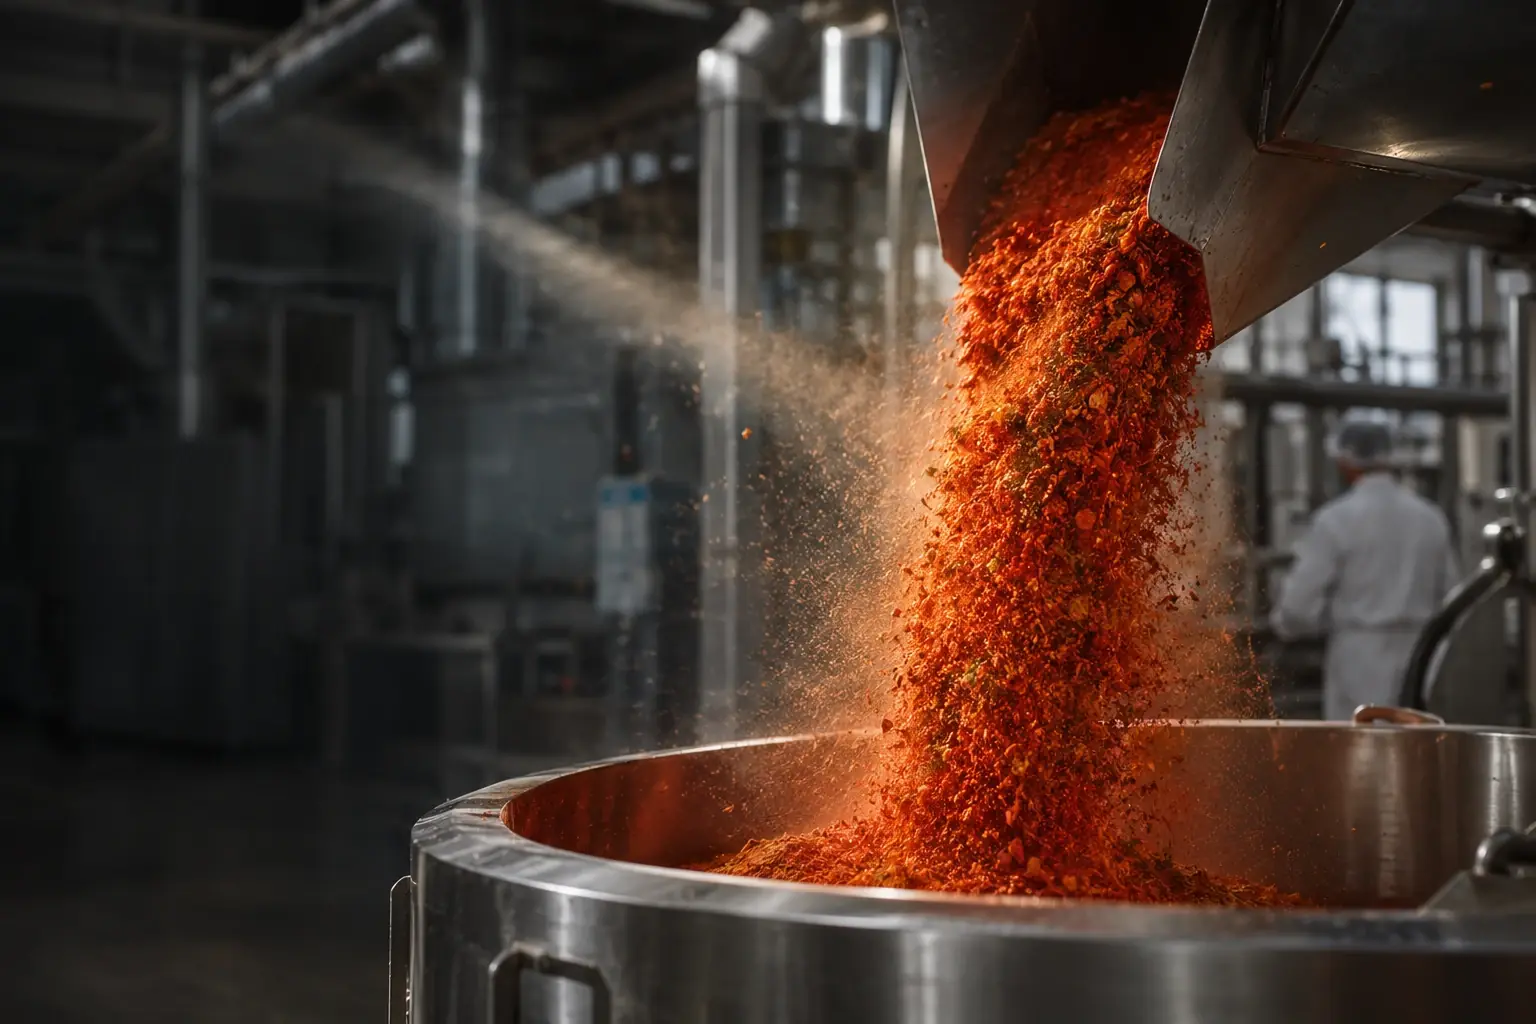
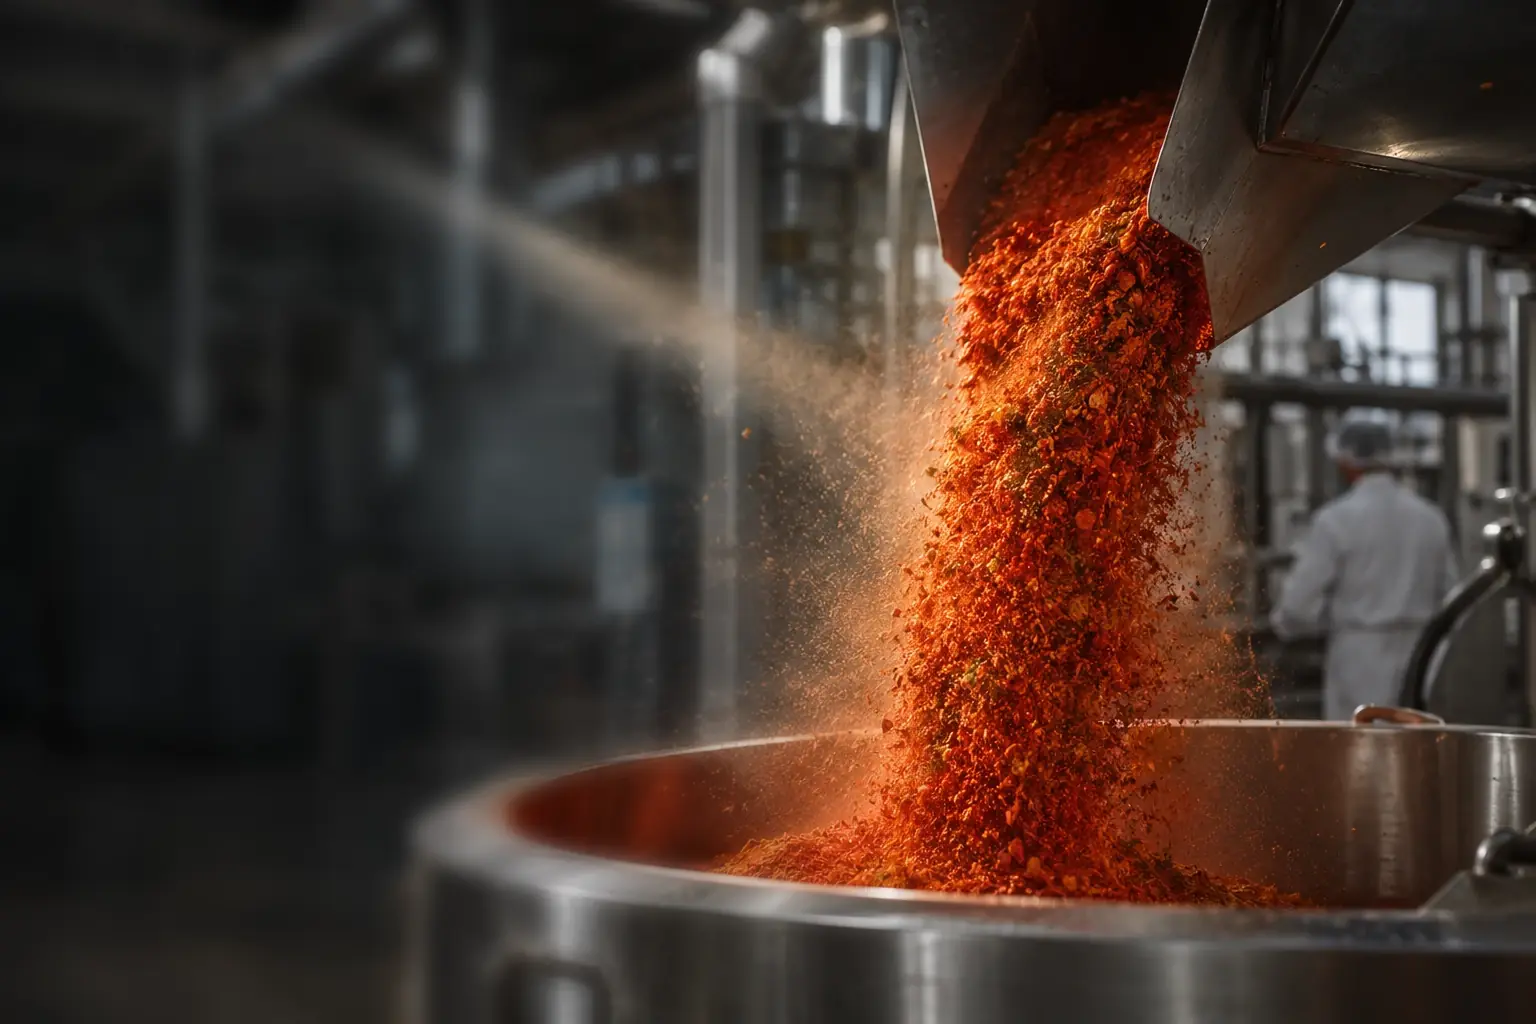
Verze 2: rozmazání úvodní fotky předpočítané ve fotce místo živého filtru (posouvání 16 → 60 snímků/s), zvláštní výřez pro mobil
Claude-Session: https://claude.ai/code/session_01257Qq19mEpNfZne79Q5W11

diff --git a/v2/index.html b/v2/index.html
@@ -31,7 +31,8 @@
 <!-- META:END -->
 <meta name="theme-color" content="#A7110C">
 <meta name="color-scheme" content="light">
-<link rel="preload" as="image" href="../img/v2/hero-1536.webp" imagesrcset="../img/v2/hero-900.webp 900w, ../img/v2/hero-1536.webp 1536w" imagesizes="100vw" type="image/webp" fetchpriority="high">
+<link rel="preload" as="image" href="../img/v2/hero-m-600.webp" media="(max-width:760px)" type="image/webp" fetchpriority="high">
+<link rel="preload" as="image" href="../img/v2/hero-1536.webp" imagesrcset="../img/v2/hero-900.webp 900w, ../img/v2/hero-1536.webp 1536w" imagesizes="100vw" media="(min-width:761px)" type="image/webp" fetchpriority="high">
 <link rel="preload" href="../assets/fonts/dmsans-latin.woff2" as="font" type="font/woff2" crossorigin>
 <link rel="preload" href="../assets/fonts/dmsans-latin-ext.woff2" as="font" type="font/woff2" crossorigin>
 <link rel="preload" href="../assets/fonts/inter-latin.woff2" as="font" type="font/woff2" crossorigin>
@@ -672,9 +673,6 @@ form.q[hidden],.q-done[hidden]{display:none}
 .vhero-bg{position:absolute;inset:0;z-index:-3}
 .vhero-bg img{width:100%;height:100%;object-fit:cover;object-position:62% 45%;animation:vzoom 14s var(--ease) both}
 @keyframes vzoom{from{transform:scale(1.08)}to{transform:scale(1)}}
-/* rozmazání jen pod textem – postupně do ztracena */
-.vhero-blur{position:absolute;inset:0;z-index:-2;-webkit-backdrop-filter:blur(9px) saturate(.8);backdrop-filter:blur(9px) saturate(.8);
-  -webkit-mask-image:linear-gradient(90deg,#000 0%,#000 32%,transparent 62%);mask-image:linear-gradient(90deg,#000 0%,#000 32%,transparent 62%)}
 /* ztmavení: vlevo kvůli čitelnosti, vpravo do tmava, dole přechod pod karty */
 .vhero-shade{position:absolute;inset:0;z-index:-1;background:
   linear-gradient(90deg,rgba(18,12,11,.86) 0%,rgba(18,12,11,.64) 38%,rgba(18,12,11,.18) 64%,rgba(18,12,11,.42) 100%),
@@ -697,8 +695,7 @@ form.q[hidden],.q-done[hidden]{display:none}
 .vswitch:hover{background:var(--red)}
 @media (max-width:760px){
   .vhero{min-height:0;padding:56px 0 120px;align-items:flex-end}
-  .vhero-bg img{object-position:66% 40%}
-  .vhero-blur{-webkit-mask-image:linear-gradient(0deg,#000 0%,#000 55%,transparent 85%);mask-image:linear-gradient(0deg,#000 0%,#000 55%,transparent 85%)}
+  .vhero-bg img{object-position:50% 30%}
   .vhero-shade{background:linear-gradient(180deg,rgba(18,12,11,.35) 0%,rgba(18,12,11,.7) 45%,rgba(18,12,11,.9) 100%)}
   .vhero h1{font-size:clamp(40px,12vw,60px)}
   .vswitch{font-size:12px;padding:8px 12px}
@@ -807,10 +804,9 @@ form.q[hidden],.q-done[hidden]{display:none}
 </header>
 
 <main id="obsah">
-  <!-- HERO (verze 2): jedna velká fotka, vlevo rozmazaná pod textem, vpravo tmavá -->
+  <!-- HERO (verze 2): jedna velká fotka; rozmazání pod textem je předpočítané přímo ve fotce (img/v2/hero-*), ne živým filtrem -->
   <section class="vhero" aria-labelledby="hero-title">
-    <picture class="vhero-bg"><source srcset="../img/v2/hero-900.webp 900w, ../img/v2/hero-1536.webp 1536w" sizes="100vw" type="image/webp"><img src="../img/v2/hero.jpg" alt="Proud kořenicí směsi se sype z nerezové násypky do průmyslového míchacího stroje" width="1536" height="1024" fetchpriority="high" decoding="async"></picture>
-    <div class="vhero-blur" aria-hidden="true"></div>
+    <picture class="vhero-bg"><source media="(max-width:760px)" srcset="../img/v2/hero-m-600.webp" type="image/webp"><source srcset="../img/v2/hero-900.webp 900w, ../img/v2/hero-1536.webp 1536w" sizes="100vw" type="image/webp"><img src="../img/v2/hero.jpg" alt="Proud kořenicí směsi se sype z nerezové násypky do průmyslového míchacího stroje" width="1536" height="1024" fetchpriority="high" decoding="async"></picture>
     <div class="vhero-shade" aria-hidden="true"></div>
     <div class="wrap vhero-in">
       <p class="vhero-eyebrow lift"><svg viewBox="0 0 97.6 97.6" fill="currentColor" aria-hidden="true"><use href="#mark"/></svg>Dáváme jídlu chuť. Od roku&nbsp;1996.</p>
@@ -1071,7 +1067,7 @@ form.q[hidden],.q-done[hidden]{display:none}
   </div>
 </footer>
 
-<script src="../assets/products.js?v=54314936"></script>
+<script src="../assets/products.js?v=ea75b901"></script>
 <script>
 (() => {
   const reduce = matchMedia('(prefers-reduced-motion: reduce)').matches;

diff --git a/assets/styles.css b/assets/styles.css
@@ -634,9 +634,6 @@ form.q[hidden],.q-done[hidden]{display:none}
 .vhero-bg{position:absolute;inset:0;z-index:-3}
 .vhero-bg img{width:100%;height:100%;object-fit:cover;object-position:62% 45%;animation:vzoom 14s var(--ease) both}
 @keyframes vzoom{from{transform:scale(1.08)}to{transform:scale(1)}}
-/* rozmazání jen pod textem – postupně do ztracena */
-.vhero-blur{position:absolute;inset:0;z-index:-2;-webkit-backdrop-filter:blur(9px) saturate(.8);backdrop-filter:blur(9px) saturate(.8);
-  -webkit-mask-image:linear-gradient(90deg,#000 0%,#000 32%,transparent 62%);mask-image:linear-gradient(90deg,#000 0%,#000 32%,transparent 62%)}
 /* ztmavení: vlevo kvůli čitelnosti, vpravo do tmava, dole přechod pod karty */
 .vhero-shade{position:absolute;inset:0;z-index:-1;background:
   linear-gradient(90deg,rgba(18,12,11,.86) 0%,rgba(18,12,11,.64) 38%,rgba(18,12,11,.18) 64%,rgba(18,12,11,.42) 100%),
@@ -659,8 +656,7 @@ form.q[hidden],.q-done[hidden]{display:none}
 .vswitch:hover{background:var(--red)}
 @media (max-width:760px){
   .vhero{min-height:0;padding:56px 0 120px;align-items:flex-end}
-  .vhero-bg img{object-position:66% 40%}
-  .vhero-blur{-webkit-mask-image:linear-gradient(0deg,#000 0%,#000 55%,transparent 85%);mask-image:linear-gradient(0deg,#000 0%,#000 55%,transparent 85%)}
+  .vhero-bg img{object-position:50% 30%}
   .vhero-shade{background:linear-gradient(180deg,rgba(18,12,11,.35) 0%,rgba(18,12,11,.7) 45%,rgba(18,12,11,.9) 100%)}
   .vhero h1{font-size:clamp(40px,12vw,60px)}
   .vswitch{font-size:12px;padding:8px 12px}

diff --git a/tools/v2_hero.html b/tools/v2_hero.html
@@ -1,7 +1,6 @@
-  <!-- HERO (verze 2): jedna velká fotka, vlevo rozmazaná pod textem, vpravo tmavá -->
+  <!-- HERO (verze 2): jedna velká fotka; rozmazání pod textem je předpočítané přímo ve fotce (img/v2/hero-*), ne živým filtrem -->
   <section class="vhero" aria-labelledby="hero-title">
-    <picture class="vhero-bg"><source srcset="img/v2/hero-900.webp 900w, img/v2/hero-1536.webp 1536w" sizes="100vw" type="image/webp"><img src="img/v2/hero.jpg" alt="Proud kořenicí směsi se sype z nerezové násypky do průmyslového míchacího stroje" width="1536" height="1024" fetchpriority="high" decoding="async"></picture>
-    <div class="vhero-blur" aria-hidden="true"></div>
+    <picture class="vhero-bg"><source media="(max-width:760px)" srcset="img/v2/hero-m-600.webp" type="image/webp"><source srcset="img/v2/hero-900.webp 900w, img/v2/hero-1536.webp 1536w" sizes="100vw" type="image/webp"><img src="img/v2/hero.jpg" alt="Proud kořenicí směsi se sype z nerezové násypky do průmyslového míchacího stroje" width="1536" height="1024" fetchpriority="high" decoding="async"></picture>
     <div class="vhero-shade" aria-hidden="true"></div>
     <div class="wrap vhero-in">
       <p class="vhero-eyebrow lift"><svg viewBox="0 0 97.6 97.6" fill="currentColor" aria-hidden="true"><use href="#mark"/></svg>Dáváme jídlu chuť. Od roku&nbsp;1996.</p>

diff --git a/en/products.html b/en/products.html
@@ -10,7 +10,7 @@
 <link rel="preload" href="../assets/fonts/dmsans-latin-ext.woff2" as="font" type="font/woff2" crossorigin>
 <link rel="preload" href="../assets/fonts/inter-latin.woff2" as="font" type="font/woff2" crossorigin>
 <link rel="preload" href="../assets/fonts/inter-latin-ext.woff2" as="font" type="font/woff2" crossorigin>
-<link rel="stylesheet" href="../assets/styles.css?v=54314936">
+<link rel="stylesheet" href="../assets/styles.css?v=ea75b901">
 <title>Products – spices, seasoning blends and dehydrated foods | J.K.FOOD</title>
 <meta name="description" content="Over 490 products from J.K.FOOD, Czech Republic: single spices, seasoning blends, dried vegetables, blends for the meat industry, dried mushrooms, stocks, soups and potato products.">
 <link rel="alternate" hreflang="cs" href="https://www.kostera.cz/sortiment.html">
@@ -764,7 +764,7 @@
   </div>
 </footer>
 
-<script src="../assets/products.js?v=54314936" defer></script>
+<script src="../assets/products.js?v=ea75b901" defer></script>
 <script>
 addEventListener('DOMContentLoaded', () => {
   const { drawProduct } = window.JK;

diff --git a/en/index.html b/en/index.html
@@ -12,7 +12,7 @@
 <link rel="preload" href="../assets/fonts/dmsans-latin-ext.woff2" as="font" type="font/woff2" crossorigin>
 <link rel="preload" href="../assets/fonts/inter-latin.woff2" as="font" type="font/woff2" crossorigin>
 <link rel="preload" href="../assets/fonts/inter-latin-ext.woff2" as="font" type="font/woff2" crossorigin>
-<link rel="stylesheet" href="../assets/styles.css?v=54314936">
+<link rel="stylesheet" href="../assets/styles.css?v=ea75b901">
 <title>J.K.FOOD – Czech producer of spices and seasoning blends</title>
 <meta name="description" content="Family company from Větřkovice, Czech Republic. Since 1996 we have produced spices, seasoning blends, dried vegetables and dehydrated foods for food manufacturers and catering.">
 <link rel="alternate" hreflang="cs" href="https://www.kostera.cz/">
@@ -363,7 +363,7 @@
   </div>
 </footer>
 
-<script src="../assets/products.js?v=54314936"></script>
+<script src="../assets/products.js?v=ea75b901"></script>
 <script>
 (() => {
   const reduce = matchMedia('(prefers-reduced-motion: reduce)').matches;

diff --git a/sortiment-bramborove-vyrobky.html b/sortiment-bramborove-vyrobky.html
@@ -29,7 +29,7 @@
 <link rel="preload" href="assets/fonts/dmsans-latin-ext.woff2" as="font" type="font/woff2" crossorigin>
 <link rel="preload" href="assets/fonts/inter-latin.woff2" as="font" type="font/woff2" crossorigin>
 <link rel="preload" href="assets/fonts/inter-latin-ext.woff2" as="font" type="font/woff2" crossorigin>
-<link rel="stylesheet" href="assets/styles.css?v=54314936">
+<link rel="stylesheet" href="assets/styles.css?v=ea75b901">
 </head>
 <body>
 <svg width="0" height="0" style="position:absolute" aria-hidden="true" focusable="false">
@@ -161,7 +161,7 @@
   </div>
 </footer>
 
-<script src="assets/products.js?v=54314936" defer></script>
+<script src="assets/products.js?v=ea75b901" defer></script>
 <script>
 addEventListener('DOMContentLoaded', () => {
   const { drawProduct } = window.JK;

diff --git a/sortiment-bujony-polevky-omacky.html b/sortiment-bujony-polevky-omacky.html
@@ -29,7 +29,7 @@
 <link rel="preload" href="assets/fonts/dmsans-latin-ext.woff2" as="font" type="font/woff2" crossorigin>
 <link rel="preload" href="assets/fonts/inter-latin.woff2" as="font" type="font/woff2" crossorigin>
 <link rel="preload" href="assets/fonts/inter-latin-ext.woff2" as="font" type="font/woff2" crossorigin>
-<link rel="stylesheet" href="assets/styles.css?v=54314936">
+<link rel="stylesheet" href="assets/styles.css?v=ea75b901">
 </head>
 <body>
 <svg width="0" height="0" style="position:absolute" aria-hidden="true" focusable="false">
@@ -179,7 +179,7 @@
   </div>
 </footer>
 
-<script src="assets/products.js?v=54314936" defer></script>
+<script src="assets/products.js?v=ea75b901" defer></script>
 <script>
 addEventListener('DOMContentLoaded', () => {
   const { drawProduct } = window.JK;

diff --git a/sortiment-koreni-jednodruhove.html b/sortiment-koreni-jednodruhove.html
@@ -29,7 +29,7 @@
 <link rel="preload" href="assets/fonts/dmsans-latin-ext.woff2" as="font" type="font/woff2" crossorigin>
 <link rel="preload" href="assets/fonts/inter-latin.woff2" as="font" type="font/woff2" crossorigin>
 <link rel="preload" href="assets/fonts/inter-latin-ext.woff2" as="font" type="font/woff2" crossorigin>
-<link rel="stylesheet" href="assets/styles.css?v=54314936">
+<link rel="stylesheet" href="assets/styles.css?v=ea75b901">
 </head>
 <body>
 <svg width="0" height="0" style="position:absolute" aria-hidden="true" focusable="false">
@@ -221,7 +221,7 @@
   </div>
 </footer>
 
-<script src="assets/products.js?v=54314936" defer></script>
+<script src="assets/products.js?v=ea75b901" defer></script>
 <script>
 addEventListener('DOMContentLoaded', () => {
   const { drawProduct } = window.JK;

diff --git a/sortiment-korenici-smesi.html b/sortiment-korenici-smesi.html
@@ -29,7 +29,7 @@
 <link rel="preload" href="assets/fonts/dmsans-latin-ext.woff2" as="font" type="font/woff2" crossorigin>
 <link rel="preload" href="assets/fonts/inter-latin.woff2" as="font" type="font/woff2" crossorigin>
 <link rel="preload" href="assets/fonts/inter-latin-ext.woff2" as="font" type="font/woff2" crossorigin>
-<link rel="stylesheet" href="assets/styles.css?v=54314936">
+<link rel="stylesheet" href="assets/styles.css?v=ea75b901">
 </head>
 <body>
 <svg width="0" height="0" style="position:absolute" aria-hidden="true" focusable="false">
@@ -218,7 +218,7 @@
   </div>
 </footer>
 
-<script src="assets/products.js?v=54314936" defer></script>
+<script src="assets/products.js?v=ea75b901" defer></script>
 <script>
 addEventListener('DOMContentLoaded', () => {
   const { drawProduct } = window.JK;

diff --git a/sortiment-skroby-a-dalsi.html b/sortiment-skroby-a-dalsi.html
@@ -29,7 +29,7 @@
 <link rel="preload" href="assets/fonts/dmsans-latin-ext.woff2" as="font" type="font/woff2" crossorigin>
 <link rel="preload" href="assets/fonts/inter-latin.woff2" as="font" type="font/woff2" crossorigin>
 <link rel="preload" href="assets/fonts/inter-latin-ext.woff2" as="font" type="font/woff2" crossorigin>
-<link rel="stylesheet" href="assets/styles.css?v=54314936">
+<link rel="stylesheet" href="assets/styles.css?v=ea75b901">
 </head>
 <body>
 <svg width="0" height="0" style="position:absolute" aria-hidden="true" focusable="false">
@@ -192,7 +192,7 @@
   </div>
 </footer>
 
-<script src="assets/products.js?v=54314936" defer></script>
+<script src="assets/products.js?v=ea75b901" defer></script>
 <script>
 addEventListener('DOMContentLoaded', () => {
   const { drawProduct } = window.JK;

diff --git a/sortiment-smesi-pro-masny-prumysl.html b/sortiment-smesi-pro-masny-prumysl.html
@@ -29,7 +29,7 @@
 <link rel="preload" href="assets/fonts/dmsans-latin-ext.woff2" as="font" type="font/woff2" crossorigin>
 <link rel="preload" href="assets/fonts/inter-latin.woff2" as="font" type="font/woff2" crossorigin>
 <link rel="preload" href="assets/fonts/inter-latin-ext.woff2" as="font" type="font/woff2" crossorigin>
-<link rel="stylesheet" href="assets/styles.css?v=54314936">
+<link rel="stylesheet" href="assets/styles.css?v=ea75b901">
 </head>
 <body>
 <svg width="0" height="0" style="position:absolute" aria-hidden="true" focusable="false">
@@ -373,7 +373,7 @@
   </div>
 </footer>
 
-<script src="assets/products.js?v=54314936" defer></script>
+<script src="assets/products.js?v=ea75b901" defer></script>
 <script>
 addEventListener('DOMContentLoaded', () => {
   const { drawProduct } = window.JK;

diff --git a/sortiment-susena-zelenina.html b/sortiment-susena-zelenina.html
@@ -29,7 +29,7 @@
 <link rel="preload" href="assets/fonts/dmsans-latin-ext.woff2" as="font" type="font/woff2" crossorigin>
 <link rel="preload" href="assets/fonts/inter-latin.woff2" as="font" type="font/woff2" crossorigin>
 <link rel="preload" href="assets/fonts/inter-latin-ext.woff2" as="font" type="font/woff2" crossorigin>
-<link rel="stylesheet" href="assets/styles.css?v=54314936">
+<link rel="stylesheet" href="assets/styles.css?v=ea75b901">
 </head>
 <body>
 <svg width="0" height="0" style="position:absolute" aria-hidden="true" focusable="false">
@@ -219,7 +219,7 @@
   </div>
 </footer>
 
-<script src="assets/products.js?v=54314936" defer></script>
+<script src="assets/products.js?v=ea75b901" defer></script>
 <script>
 addEventListener('DOMContentLoaded', () => {
   const { drawProduct } = window.JK;
